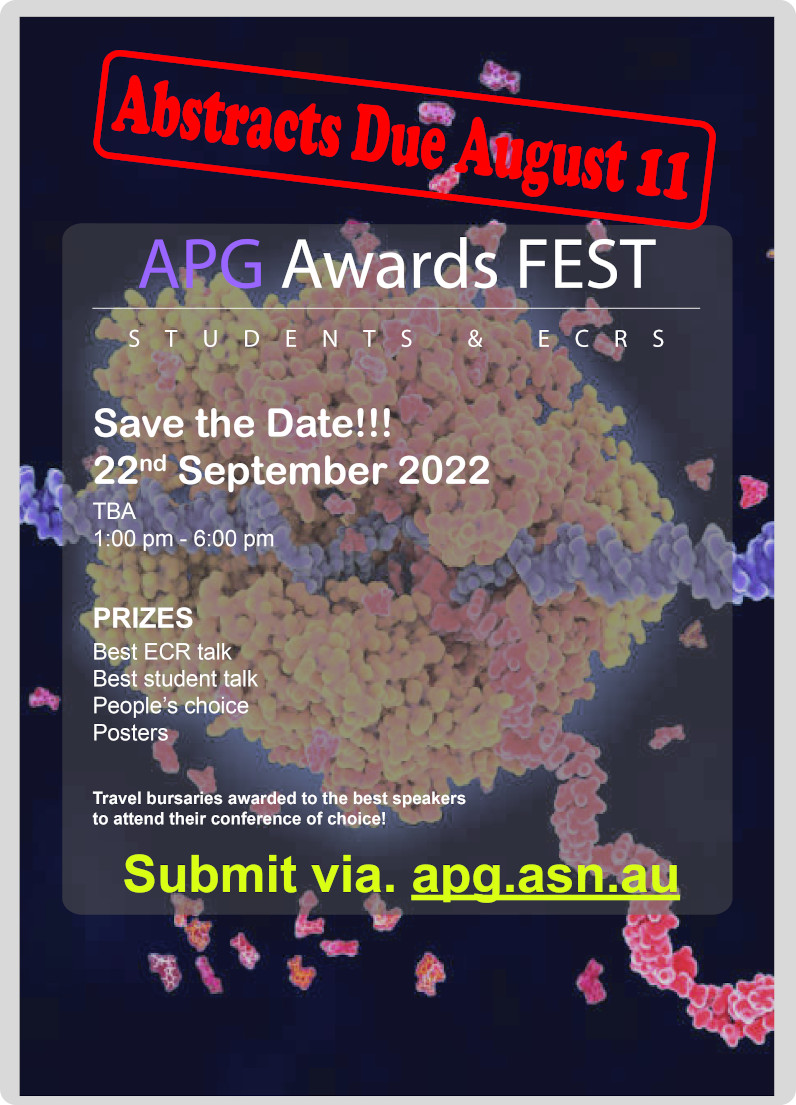
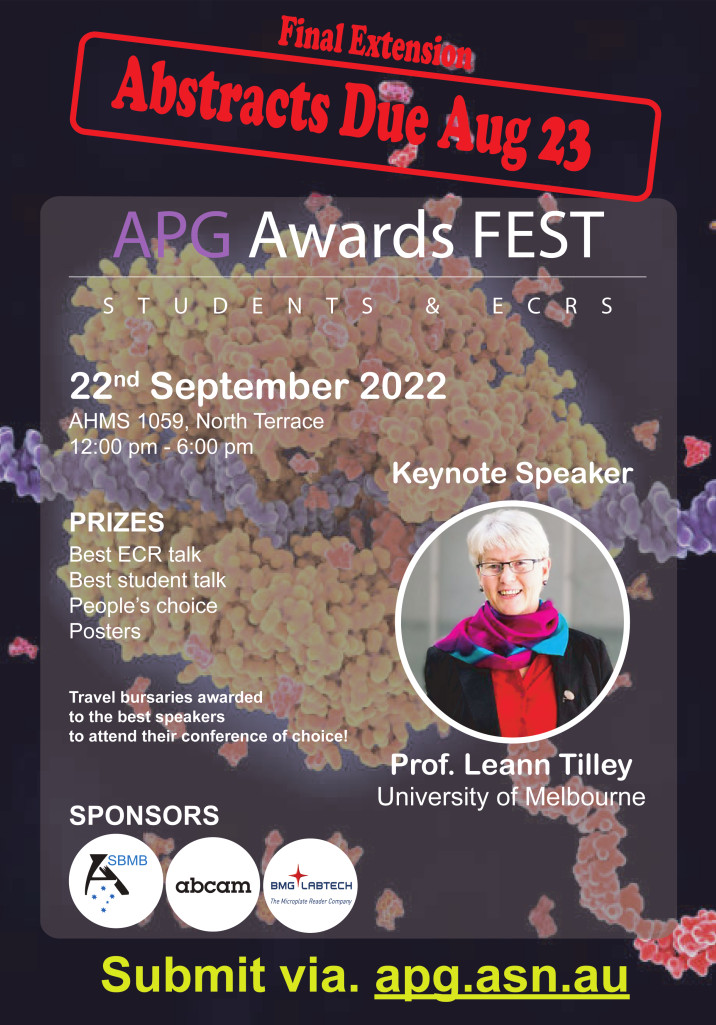
abstract extension

diff --git a/_posts/2022-07-22-awardsfest-cfa.md b/_posts/2022-07-22-awardsfest-cfa.md
@@ -1,6 +1,6 @@
 ---
 layout: post
-title: "APG AwardsFest 2022: Call For Abstracts"
+title: "APG AwardsFest 2022: Call For Abstracts - Extended"
 categories: other
 ---
 
@@ -9,19 +9,9 @@ Download the Abstract submission template and email your submissions to [apg.abs
  - [Student (PhD/Masters) submission template][1]
  - [ECR submission template][2]
 
-__Submission deadline: August 11th__
-
-__Location and prizes TBA, watch this space!__
-
+__Submission deadline: FINAL EXTENSION: August 23rd__
 
 ![](/assets/images/2022_awardsfestCFA.jpg)
-
-__Join us for the first ever APG Quiz night!__
-
-Follow the QR code or [this link](https://docs.google.com/forms/d/e/1FAIpQLSeWE5BPqqIpa4xJx1GKRdOFB8dDfGLGStdgj2GOLzXbxxt52g/viewform) 
-to register your team today!
-
-![](/assets/images/2022_quizznight.jpeg)
 
 
 [1]:/assets/docs/StudentAwardsTemplate.docx
